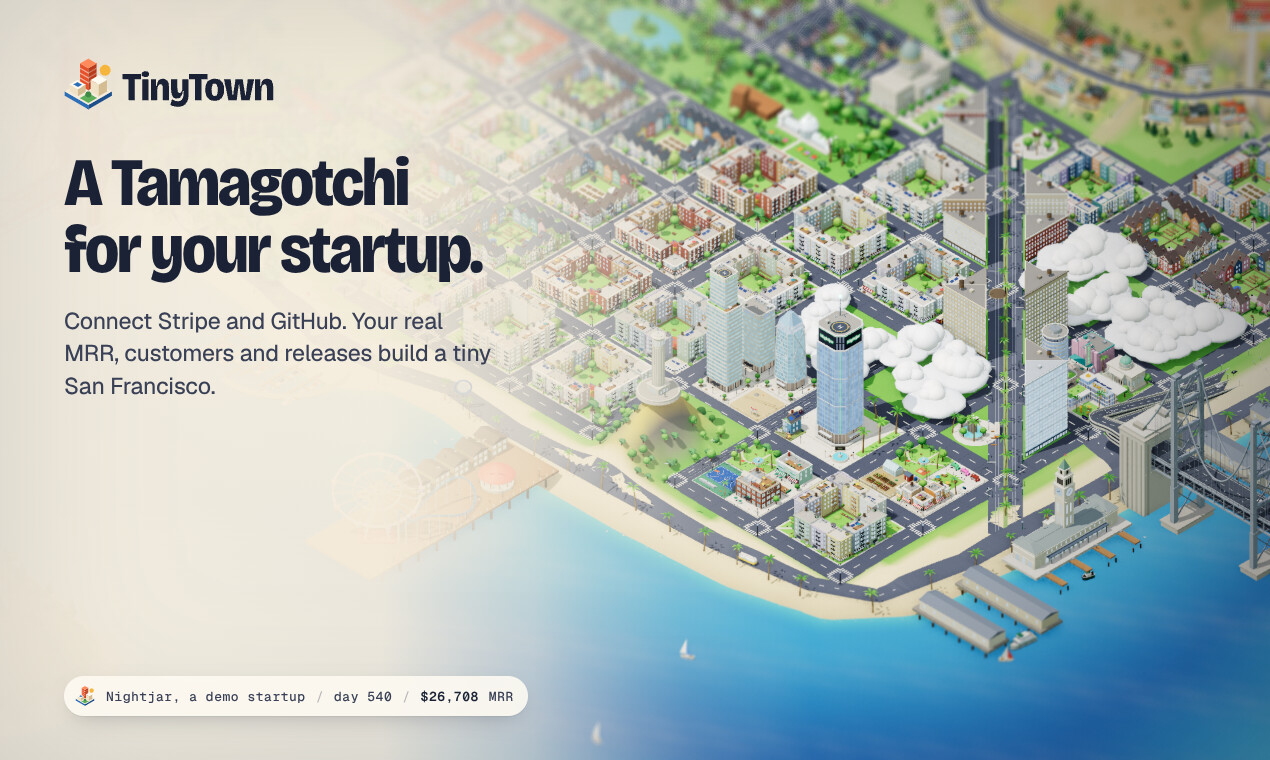
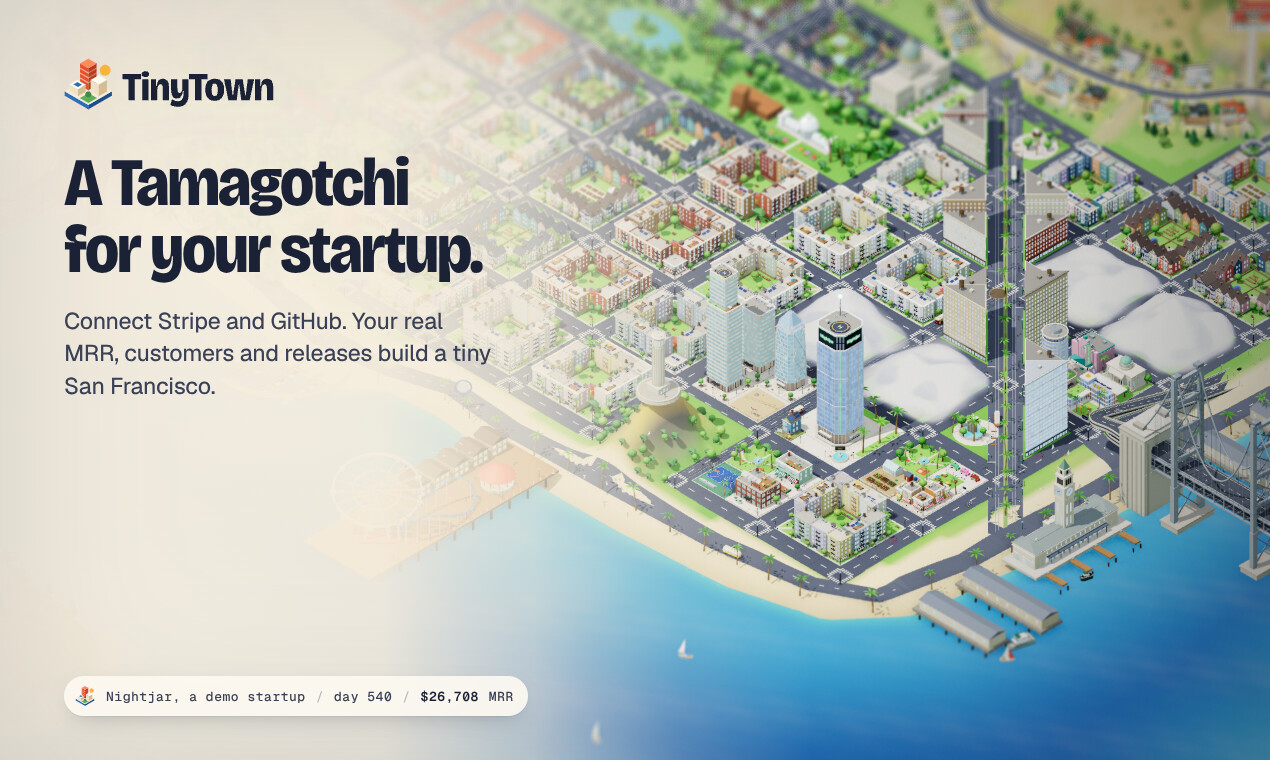
Launch images and the invite's city picture re-rendered with the new fog
Claude-Session: https://claude.ai/code/session_01227t5Sw2BZazdsG4j6Q2pE

diff --git a/docs/TODO.md b/docs/TODO.md
@@ -29,7 +29,7 @@ Built and committed (2026-10-13): accounts, billing, the paywall, onboarding, th
 
 ## P1: Design pass follow-ups (2026-10-13)
 
-- [ ] **Re-render the launch images after the fog change:** `node tools/brand-assets.mjs social --base=<dev url>` (the social kit) and `node tools/email-assets.mjs` (the invite's city picture) still show the old cloud look.
+- [x] **Re-render the launch images after the fog change** (done; rerun after big visual changes): `node tools/brand-assets.mjs social --base=<dev url>` (the social kit) and `node tools/email-assets.mjs` (the invite's city picture) still show the old cloud look.
 - [ ] **Owner to confirm:** the invite email now states the price ("$12 a month or $99 a year"), matching the terms page.
 - [ ] **Lawyer:** privacy §2 says no marketing email unless asked, but the weekly digest is on by default; and the legal pages use British spelling while the product uses US.
 - [ ] **Front door on phones:** the camera stops at `minZoom` 0.32, so the top half shows downtown cropped; let attract mode zoom out further on portrait screens (check shadows and the far plane).
